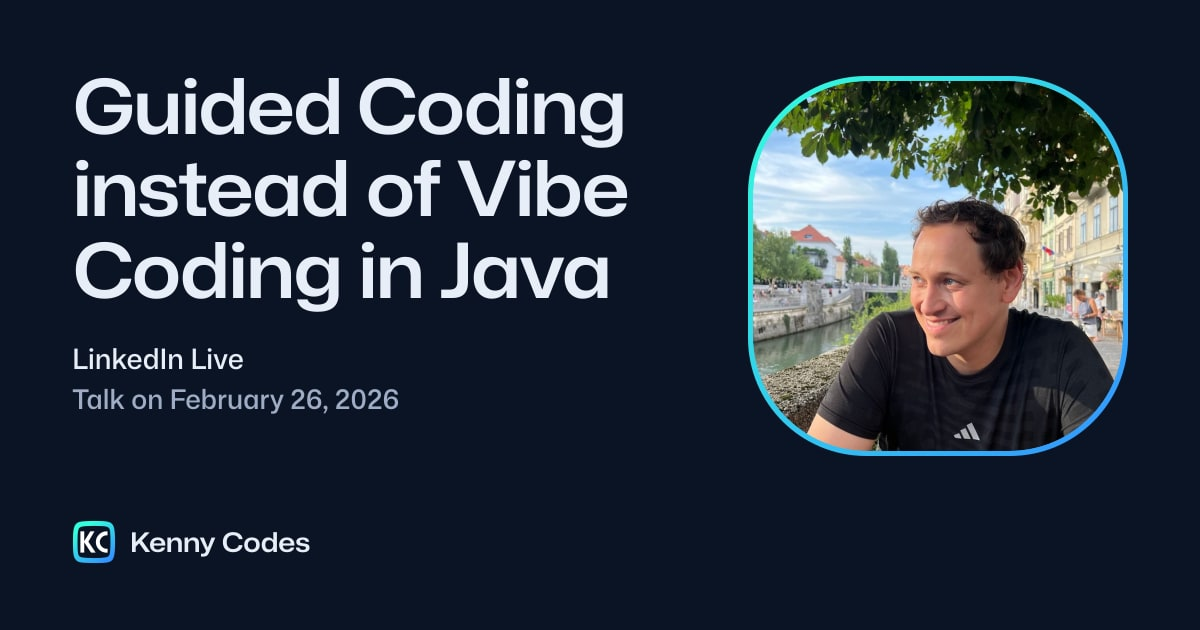
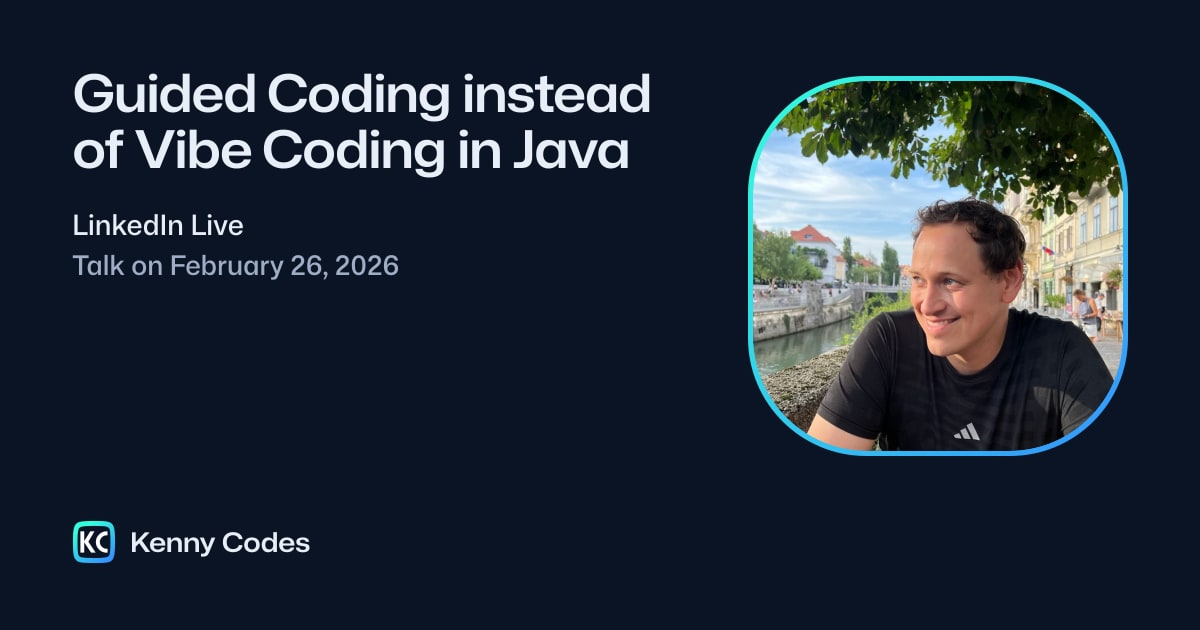
fix(social-cards): address the fifth review round
- Remove the site-wide og:title, og:description, og:url, og:image:alt,
  twitter:title and twitter:description. They overrode the per-page
  values, so X headlined every shared link "Kenny Codes" and og:url
  always pointed at the home page. Docusaurus emits the right
  per-page values, which X also reads.
- Drafts get no card. A card is written through a temporary file, and
  only then does the page's frontmatter point at it.
- Titles with characters Mona Sans lacks (such as emoji) fail with a
  clear error instead of drawing a placeholder glyph.
- "Talk", "Workshop", "Webinar" and "Lecture" in an event's name or
  title count as whole words only. "Vibe Coding" stays on one line.
- A highlight for a docs page that no longer exists fails the run;
  sections are matched by their most specific prefix.
- The redundant template-version check is gone; the hash covers it.

Changed region(s): [[0.0617, 0.1206, 0.555, 0.5127], [0.0617, 0.5429, 0.3392, 0.6635]]

diff --git a/scripts/generate-social-cards.ts b/scripts/generate-social-cards.ts
@@ -3,7 +3,7 @@ import fs from "fs/promises";
 import path from "path";
 import { fileURLToPath } from "url";
 
-import { DEFAULT_PARSE_FRONT_MATTER, parseMarkdownFile } from "@docusaurus/utils";
+import { DEFAULT_PARSE_FRONT_MATTER, isDraft, parseMarkdownFile } from "@docusaurus/utils";
 import React from "react";
 import satori from "satori";
 import sharp from "sharp";
@@ -18,6 +18,7 @@ import {
   SocialCard,
   TEXT_WIDTH,
   arrowSvg,
+  assertGlyphs,
   createMeasurer,
   fitText,
   fitTitle,
@@ -138,6 +139,7 @@ interface ContentItem {
   event?: string;
   /** The `image` frontmatter as Docusaurus reads it. */
   image?: string;
+  draft: boolean;
 }
 
 /**
@@ -337,7 +339,7 @@ function getStringField(frontmatter: Frontmatter, key: string): string | undefin
 async function discoverContent(dirPath: string, kind: ContentKind): Promise<ContentItem[]> {
   const files = await getAllMarkdownFiles(dirPath);
 
-  return Promise.all(
+  const items = await Promise.all(
     files.map(async (filePath) => {
       const { frontMatter: frontmatter, contentTitle } = await parseMarkdownFile({
         filePath,
@@ -359,9 +361,12 @@ async function discoverContent(dirPath: string, kind: ContentKind): Promise<Cont
         type: getStringField(frontmatter, "type"),
         event: getStringField(frontmatter, "event"),
         image: getStringField(frontmatter, "image"),
+        // Drafts are left out of the production build, so they get no public card either.
+        draft: isDraft({ frontMatter: frontmatter, env: "production" }),
       };
     })
   );
+  return items.filter((item) => !item.draft);
 }
 
 /**
@@ -421,6 +426,7 @@ function fitLine(
 ): { text: string; fontSize: number } {
   const fontSize =
     sizes.find((size) => measure(value, size) <= TEXT_WIDTH) ?? sizes[sizes.length - 1];
+  assertGlyphs(value, measure);
   if (measure(value, fontSize) <= TEXT_WIDTH) {
     return { text: value, fontSize };
   }
@@ -434,8 +440,11 @@ function fitLine(
   };
 }
 
+/** Words in an event's name or title that already say what kind of event it is. */
+const FORMAT_WORDS = ["Talk", "Workshop", "Webinar", "Lecture"];
+
 /** The docs sections and the method motif each one shows. */
-const DOCS_SECTIONS: Array<
+type DocsSection =
   | {
       prefix: string;
       section: string;
@@ -447,8 +456,14 @@ const DOCS_SECTIONS: Array<
       section: string;
       method: "chack";
       highlights: Record<string, ChackPart>;
-    }
-> = [
+    };
+
+/** The most specific prefix first, so a page finds its own section before the enclosing one. */
+function byPrefixLength(sections: DocsSection[]): DocsSection[] {
+  return [...sections].sort((left, right) => right.prefix.length - left.prefix.length);
+}
+
+const DOCS_SECTIONS = byPrefixLength([
   {
     prefix: "docs/chack/dotnet",
     section: "CHACK in .NET",
@@ -485,7 +500,7 @@ const DOCS_SECTIONS: Array<
       "guiding-phase": "guiding",
     },
   },
-];
+]);
 
 /**
  * Maps normalized content into the model of its card.
@@ -529,8 +544,11 @@ function buildCardModel(item: ContentItem, assets: SocialCardAssets): SocialCard
   const date = formatDate(item.date ?? "");
   const event = (item.event ?? "Kenny Pflug").replace(/ - /gu, " \u2013 ");
   const type = item.type ?? "Event";
-  // "Thinktecture Webinar" or "Async Workshop: …" already say what it is: the date alone follows.
-  const saysType = `${event} ${title}`.toLowerCase().includes(type.toLowerCase());
+  // "Thinktecture Webinar", "Visiting Lecture" or "Async Workshop: …" already say what it is: the
+  // date alone follows. Whole words only: "Talking to LLMs" is no "Talk".
+  const saysType = [type, ...FORMAT_WORDS].some((word) =>
+    new RegExp(`(^|[^\\p{L}])${word}($|[^\\p{L}])`, "iu").test(`${event} ${title}`)
+  );
   const [primary, secondary] =
     item.kind === "blog"
       ? ["Blog post by Kenny Pflug", date]
@@ -802,6 +820,16 @@ async function main(): Promise<void> {
   ]);
 
   const items = [...blogItems, ...eventItems, ...docsItems];
+  // A highlight for a page that no longer exists means the page was renamed: say so.
+  for (const docs of DOCS_SECTIONS) {
+    for (const page of Object.keys(docs.highlights)) {
+      if (!docsItems.some((item) => item.slug === `${docs.prefix}/${page}`)) {
+        throw new Error(
+          `DOCS_SECTIONS highlights "${docs.prefix}/${page}", which is not a docs page.`
+        );
+      }
+    }
+  }
   // Different paths can flatten to the same file name ("a-b/c" and "a/b-c"): stop before writing.
   const owners = new Map<string, string>();
   for (const item of items) {
@@ -854,32 +882,30 @@ async function main(): Promise<void> {
         return;
       }
 
-      if (frontmatter.status !== "unchanged") {
-        await fs.writeFile(item.filePath, frontmatter.content);
-        updatedFrontmatterCount += 1;
-      }
-
       const absoluteOutputPath = path.join(STATIC_DIR, managedImagePath.replace(/^\//u, ""));
       const currentHash = hashCard(model, assets);
-      nextManifest.items[item.slug] = currentHash;
-
-      const previousHash = previousManifest.items[item.slug];
       const outputAlreadyExists = await fs
         .access(absoluteOutputPath)
         .then(() => true)
         .catch(() => false);
 
-      if (
-        previousManifest.templateVersion === TEMPLATE_VERSION &&
-        previousHash === currentHash &&
-        outputAlreadyExists
-      ) {
+      // The hash covers TEMPLATE_VERSION, so an equal hash means an up-to-date card.
+      if (previousManifest.items[item.slug] === currentHash && outputAlreadyExists) {
         cachedCount += 1;
-        return;
+      } else {
+        // Through a temporary file, so a failed write never leaves a half-written card.
+        const temporaryPath = `${absoluteOutputPath}.tmp`;
+        await fs.writeFile(temporaryPath, await renderCard(model, assets));
+        await fs.rename(temporaryPath, absoluteOutputPath);
+        generatedCount += 1;
       }
+      nextManifest.items[item.slug] = currentHash;
 
-      await fs.writeFile(absoluteOutputPath, await renderCard(model, assets));
-      generatedCount += 1;
+      // Only once the card exists does the page point at it.
+      if (frontmatter.status !== "unchanged") {
+        await fs.writeFile(item.filePath, frontmatter.content);
+        updatedFrontmatterCount += 1;
+      }
     }
   );
 

diff --git a/scripts/social-card-template.tsx b/scripts/social-card-template.tsx
@@ -67,7 +67,11 @@ export type ChackPart = keyof typeof CHACK_TILES;
 /* ---------- Text measurement ---------- */
 
 /** Width of `text` in pixels at `fontSize`, with `tracking` in em per character. */
-export type TextMeasurer = (text: string, fontSize: number, tracking?: number) => number;
+export interface TextMeasurer {
+  (text: string, fontSize: number, tracking?: number): number;
+  /** The characters of `text` the font has no glyph for; it would draw them as a placeholder. */
+  missing(text: string): string[];
+}
 
 /**
  * Reads the advance widths of a TrueType font: `cmap` (format 4) maps characters to glyphs and
@@ -128,11 +132,24 @@ export function createMeasurer(font: Buffer): TextMeasurer {
     return width;
   };
 
-  return (text, fontSize, tracking = 0) => {
+  const measure = (text: string, fontSize: number, tracking = 0) => {
     const chars = Array.from(text);
     const em = chars.reduce((total, char) => total + advanceOf(char), 0);
     return (em + tracking * Math.max(0, chars.length - 1)) * fontSize;
   };
+  const missing = (text: string) =>
+    [...new Set(Array.from(text))].filter(
+      (char) => !/\s/u.test(char) && glyphOf(char.codePointAt(0) ?? 0) === 0
+    );
+  return Object.assign(measure, { missing });
+}
+
+/** Fails for text with characters the font lacks, such as emoji. */
+export function assertGlyphs(text: string, measure: TextMeasurer): void {
+  const missing = measure.missing(text);
+  if (missing.length > 0) {
+    throw new Error(`"${text}" contains characters Mona Sans cannot draw: ${missing.join(" ")}`);
+  }
 }
 
 /* ---------- Line breaking ---------- */
@@ -170,6 +187,7 @@ const UNBREAKABLE = [
   "Humble Objects",
   "Composition Root",
   "Automated Tests",
+  "Vibe Coding",
 ];
 
 function unitsOf(text: string): Unit[] {
@@ -302,6 +320,7 @@ export function fitText(
   }
 ): FittedText {
   // Only plain white space collapses: a non-breaking space keeps two words together.
+  assertGlyphs(text, options.measure);
   const units = unitsOf(text.replace(/[ \t\r\n]+/gu, " ").trim());
   let best: (FittedText & { cost: number }) | undefined;
   for (const fontSize of options.sizes) {

diff --git a/docusaurus.config.ts b/docusaurus.config.ts
@@ -175,18 +175,6 @@ const config: Config = {
         content: "telephone=no, address=no, email=no",
       },
       {
-        name: "og:title",
-        content: "Kenny Codes",
-      },
-      {
-        name: "og:description",
-        content: description,
-      },
-      {
-        name: "og:url",
-        content: "https://kenny-codes.net/",
-      },
-      {
         name: "og:site_name",
         content: "Kenny Codes",
       },
@@ -203,10 +191,6 @@ const config: Config = {
         content: "630",
       },
       {
-        name: "og:image:alt",
-        content: "Kenny Codes",
-      },
-      {
         name: "og:type",
         content: "website",
       },
@@ -221,14 +205,6 @@ const config: Config = {
       {
         name: "twitter:creator",
         content: "@feO2x",
-      },
-      {
-        name: "twitter:title",
-        content: "Kenny Codes",
-      },
-      {
-        name: "twitter:description",
-        content: description,
       },
       {
         name: "referrer",
